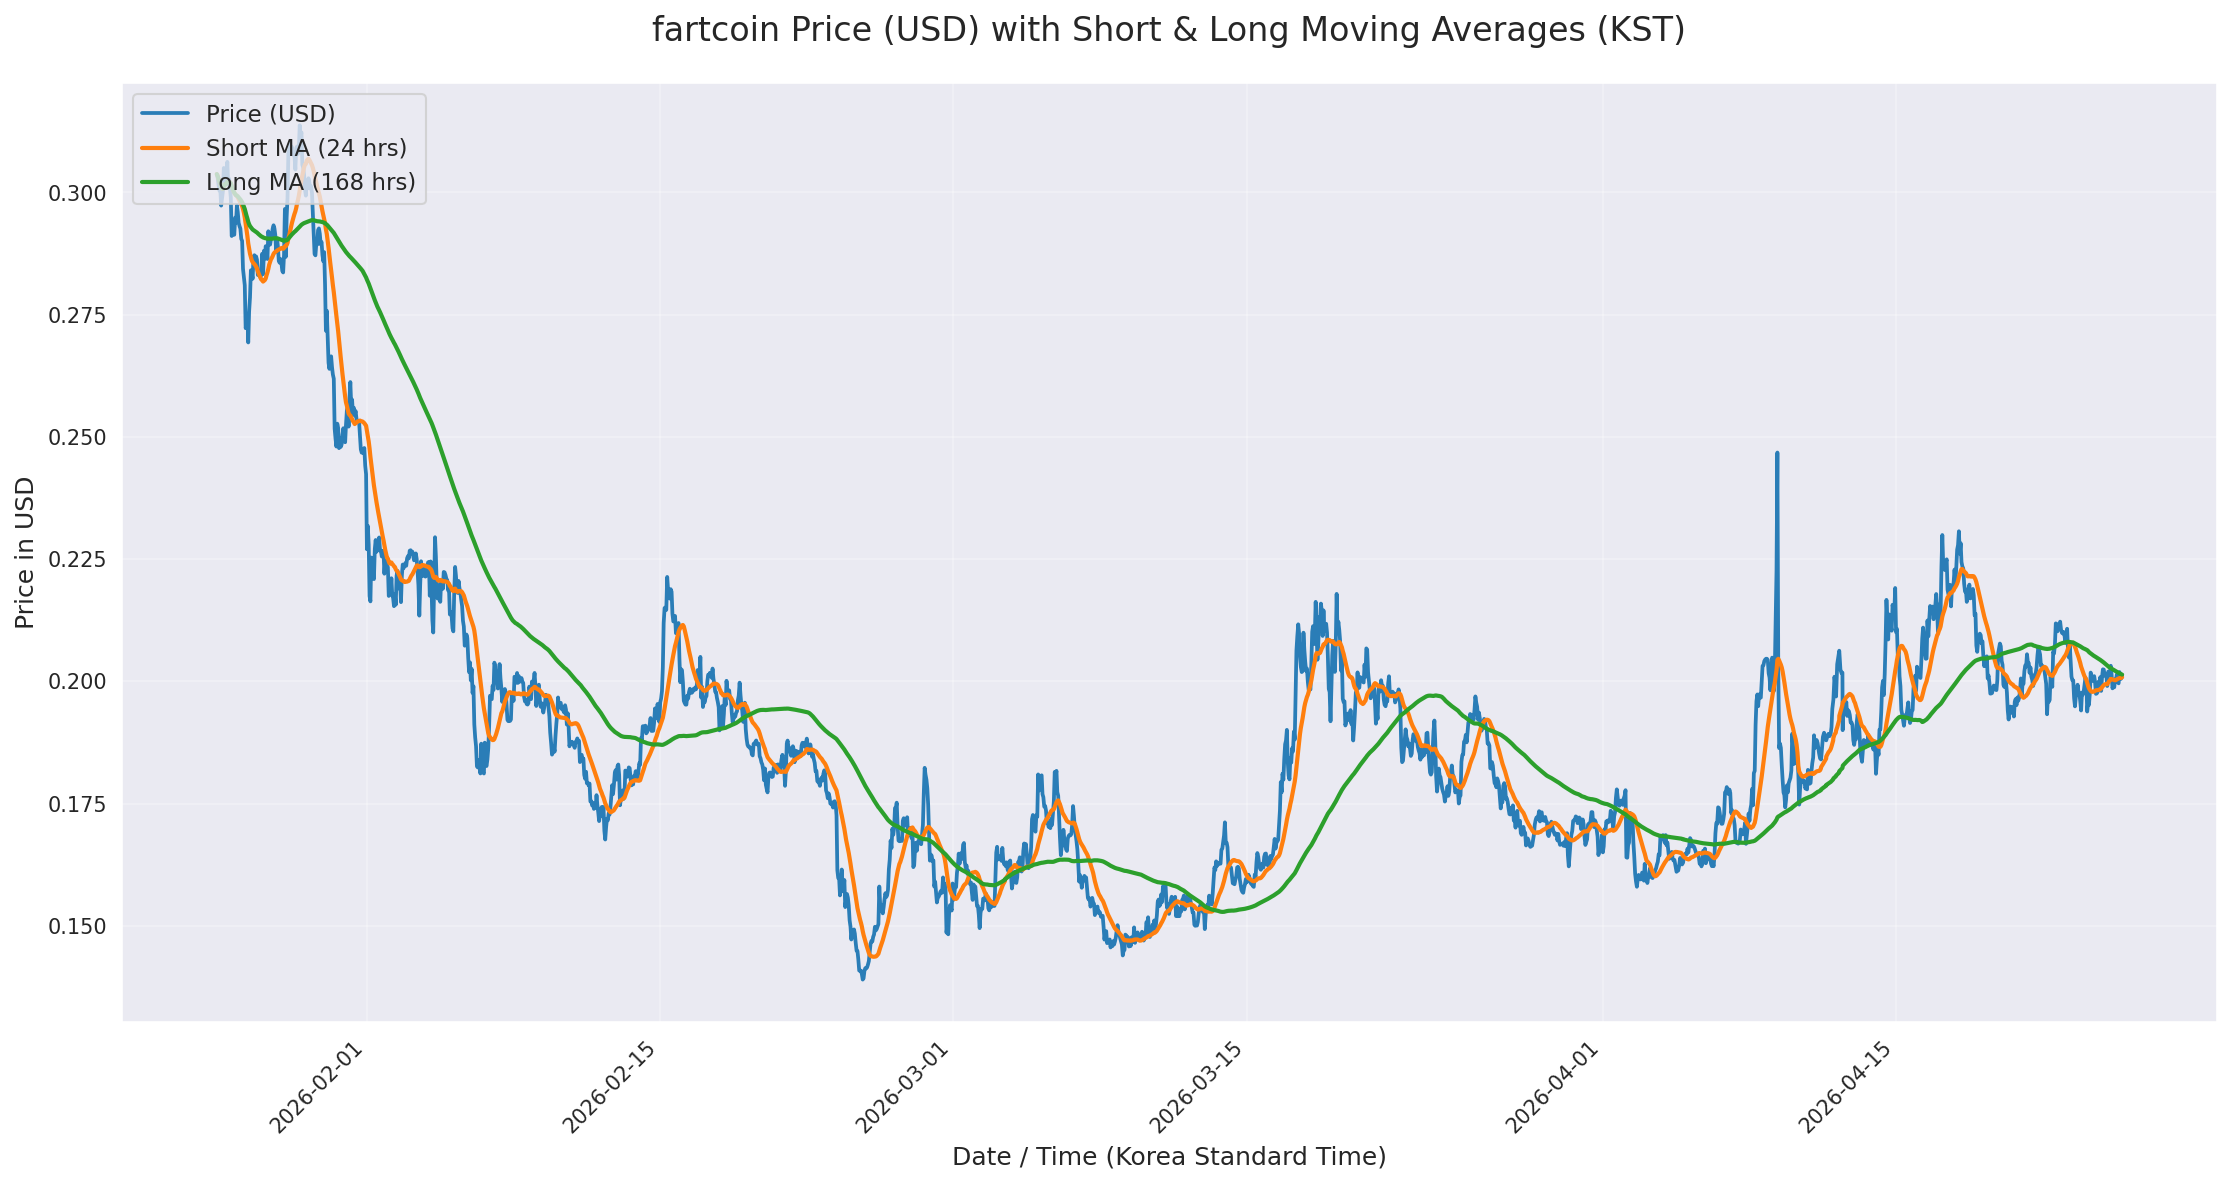
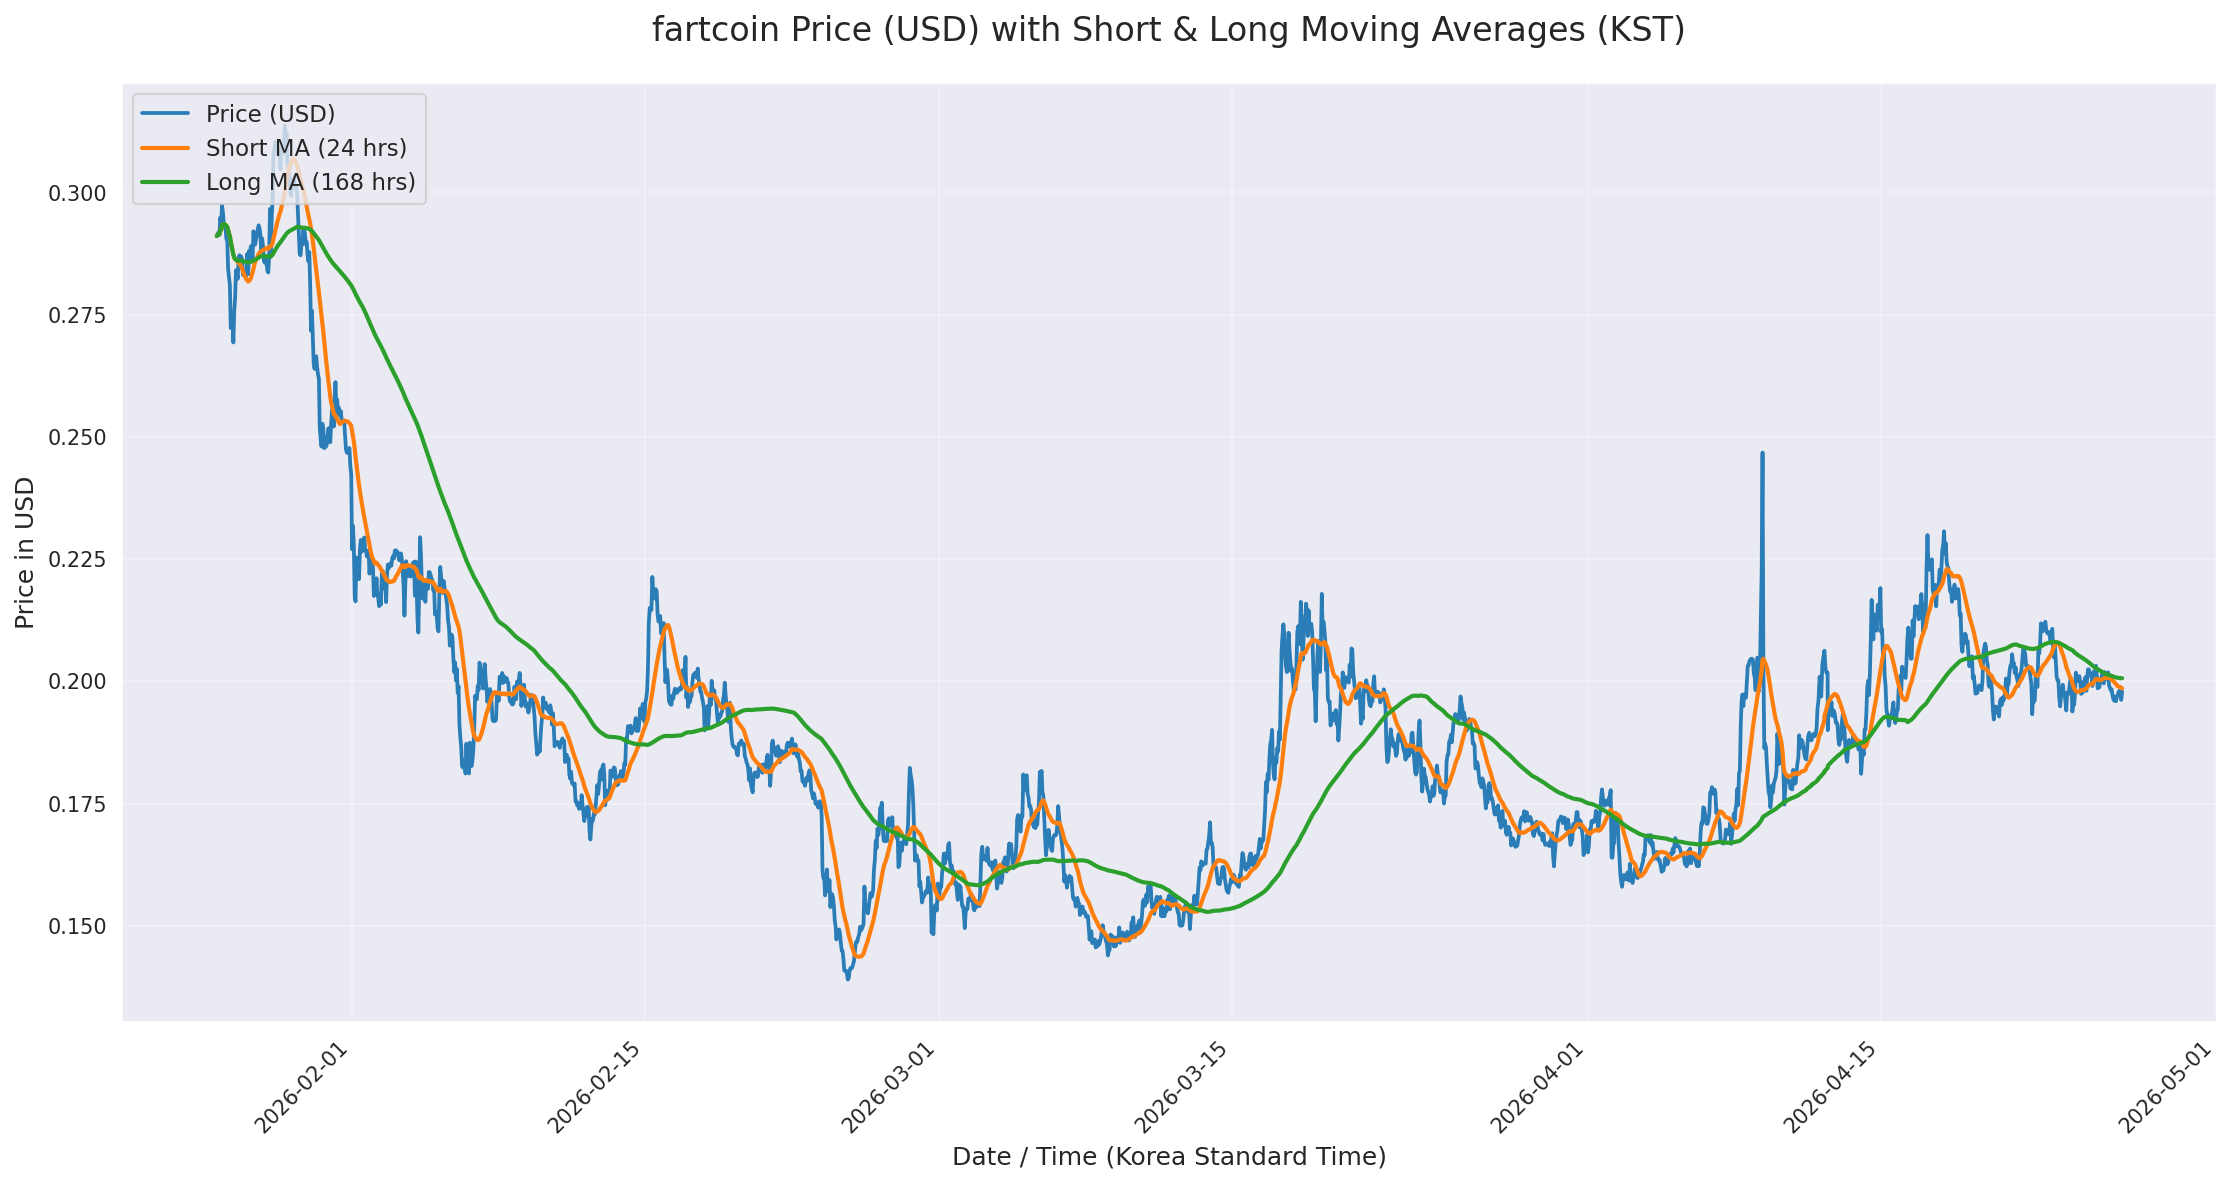
show usd amount in rebalance

diff --git a/src/snipe/tokens_balance.py b/src/snipe/tokens_balance.py
@@ -43,7 +43,7 @@ TOKEN_2022_PROGRAM_ID = "TokenzQdBNbLqP5VEhdkAS6EPFLC1PHnBqCXEpPxuEb"
 
 # RPC rate-limit handling
 RPC_RETRY_DELAY_SECONDS: int = 20
-RPC_DELAY_BETWEEN_CALLS_SECONDS: float = 1.5
+RPC_DELAY_BETWEEN_CALLS_SECONDS: float = 2
 
 # =============================================================================
 # CONSOLE ROUNDING HELPERS (display only)
@@ -370,16 +370,16 @@ def main():
     print(f"{USDC_GECKO_ID} %                : {console_round_usd(usdc_pct):.4f}%")
     print("-" * 80)
 
-    # REBALANCE OUTPUT (raw ids only)
+    # REBALANCE OUTPUT (raw ids only) — NOW INCLUDES USD SELL VALUE
     slippage_pct_str = f"{SLIPPAGE_ASSUMED*100:.1f}%"
     if sell_token > 0:
         sell_value = sell_token * main_price
         sell_pct = (sell_value / total_value * Decimal("100")) if total_value > 0 else Decimal("0")
-        print(f"🔄 To reach 50/50 (assuming {slippage_pct_str} slippage): Sell {console_round_balance(sell_token)} {main_token_id} ({console_round_usd(sell_pct):.4f}% of portfolio)")
+        print(f"🔄 To reach 50/50 (assuming {slippage_pct_str} slippage): Sell {console_round_balance(sell_token)} {main_token_id} (${console_round_usd(sell_value):,.{CONSOLE_USD_ROUNDING}f}) ({console_round_usd(sell_pct):.4f}% of portfolio)")
     elif sell_usdc > 0:
         sell_value = sell_usdc * usdc_price
         sell_pct = (sell_value / total_value * Decimal("100")) if total_value > 0 else Decimal("0")
-        print(f"🔄 To reach 50/50 (assuming {slippage_pct_str} slippage): Sell {console_round_balance(sell_usdc)} {USDC_GECKO_ID} ({console_round_usd(sell_pct):.4f}% of portfolio)")
+        print(f"🔄 To reach 50/50 (assuming {slippage_pct_str} slippage): Sell {console_round_balance(sell_usdc)} {USDC_GECKO_ID} (${console_round_usd(sell_value):,.{CONSOLE_USD_ROUNDING}f}) ({console_round_usd(sell_pct):.4f}% of portfolio)")
     else:
         print("✅ Portfolio is already perfectly balanced at 50/50!")
 